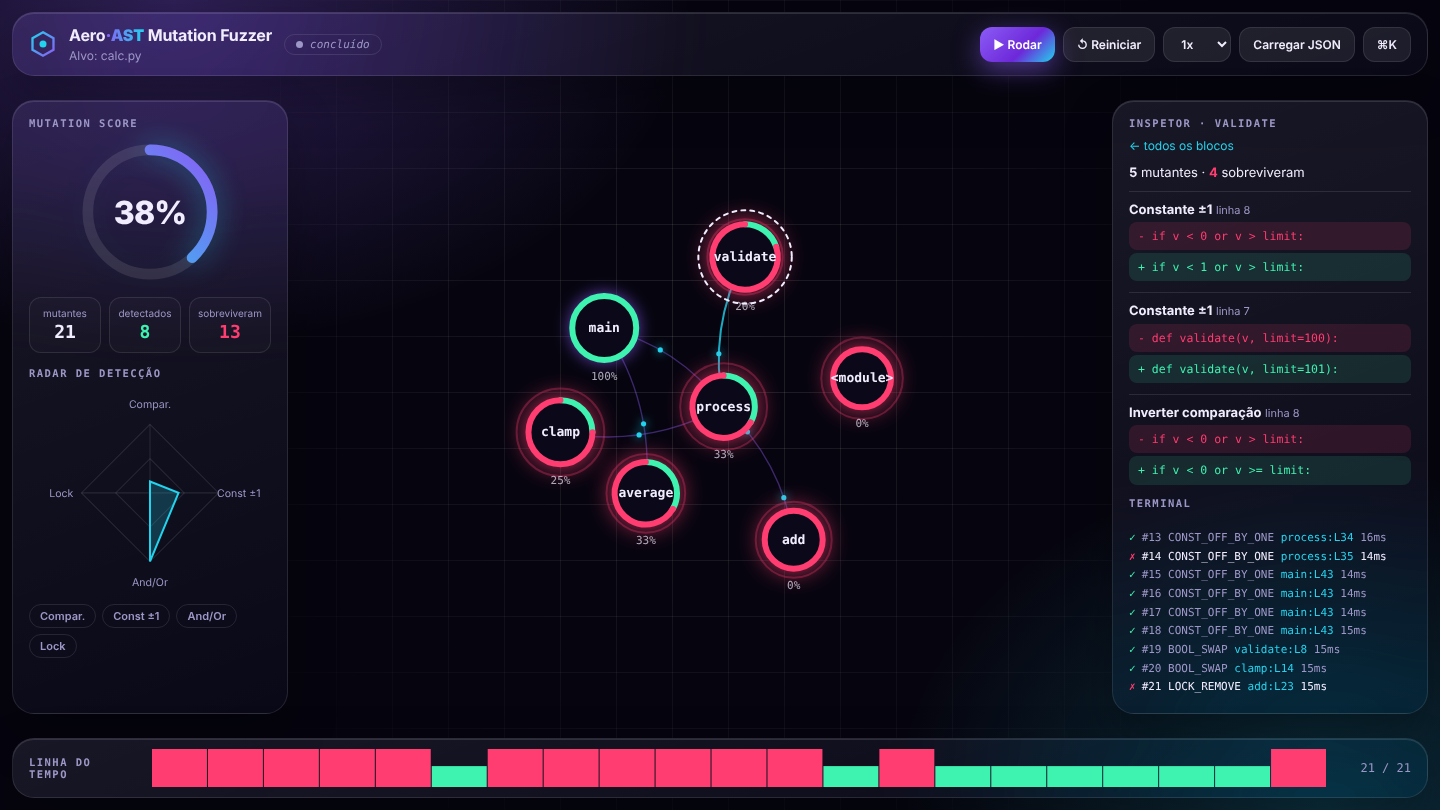
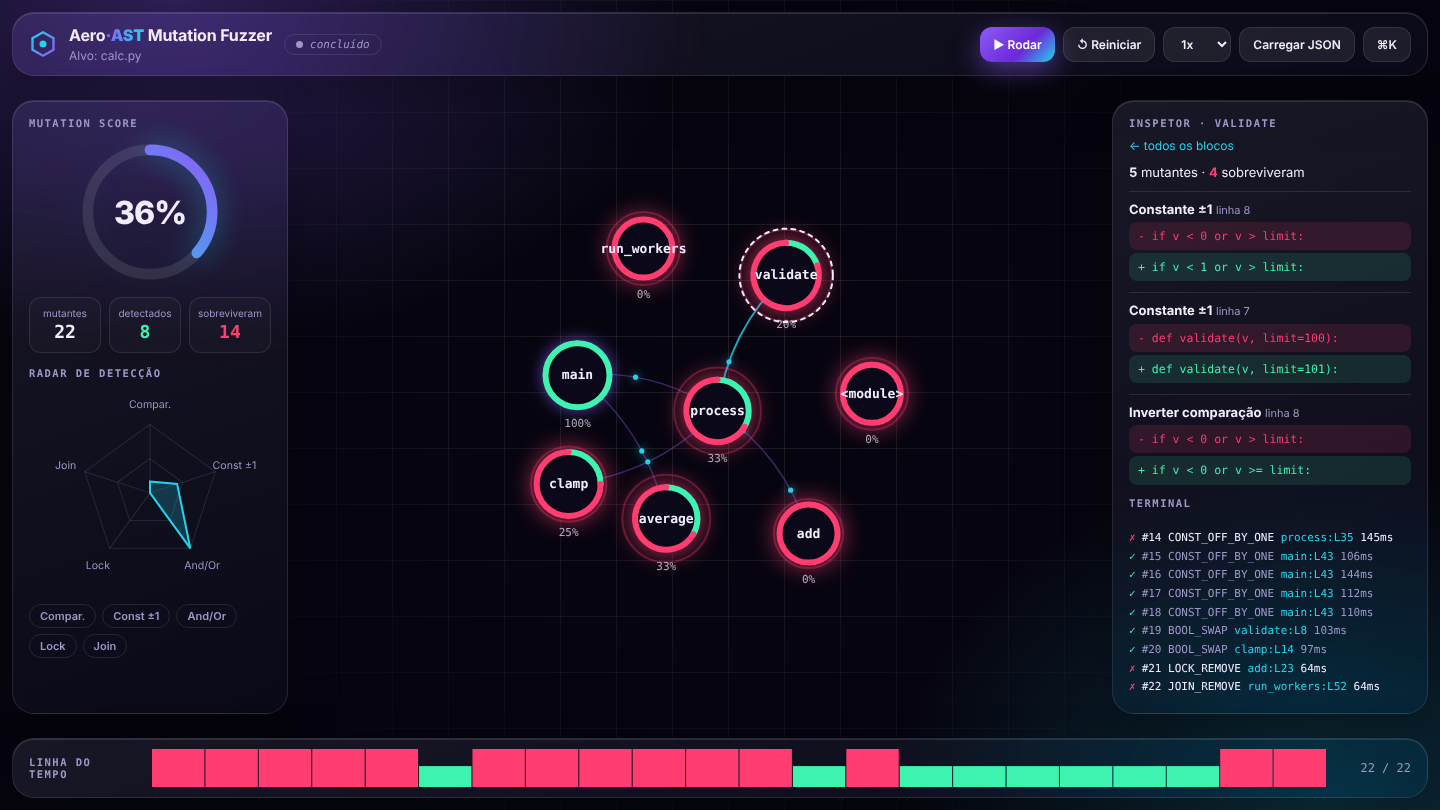
Atualiza README e fuzzer: paralelismo, ranking, relatório e JOIN_REMOVE

diff --git a/docs/index.html b/docs/index.html
@@ -57,8 +57,8 @@ pre{margin:3px 0;padding:6px 9px;border-radius:8px;font:11.5px/1.4 var(--mono);w
 <div id="pal" hidden><div><input id="pi" placeholder="Digite um comando…"><div id="pl"></div></div></div>
 <script>
 const $=i=>document.getElementById(i);
-const LBL={CMP_FLIP:"Inverter comparação",CONST_OFF_BY_ONE:"Constante ±1",BOOL_SWAP:"Trocar and/or",LOCK_REMOVE:"Remover lock"};
-const SH={CMP_FLIP:"Compar.",CONST_OFF_BY_ONE:"Const ±1",BOOL_SWAP:"And/Or",LOCK_REMOVE:"Lock"};
+const LBL={CMP_FLIP:"Inverter comparação",CONST_OFF_BY_ONE:"Constante ±1",BOOL_SWAP:"Trocar and/or",LOCK_REMOVE:"Remover lock",JOIN_REMOVE:"Remover join"};
+const SH={CMP_FLIP:"Compar.",CONST_OFF_BY_ONE:"Const ±1",BOOL_SWAP:"And/Or",LOCK_REMOVE:"Lock",JOIN_REMOVE:"Join"};
 const EX={CMP_FLIP:["if x < lo:","if x <= lo:"],CONST_OFF_BY_ONE:["limit = 10","limit = 11"],BOOL_SWAP:["if a and b:","if a or b:"],LOCK_REMOVE:["with lock:\n    total += n","total += n  # lock removido"]};
 function demo(){const ops=Object.keys(LBL),fn=["main","parse","clamp","add","worker","flush"],m=[];let s=7;for(let i=1;i<=72;i++){s=(s*37+11)%101;const ln=3+((s*7+i)%58);m.push({id:i,op:ops[i%4],line:ln,fn:fn[Math.min(5,Math.floor((ln-3)/10))],status:s%5<3?"killed":"survived",ms:40+s*3})}
  return{target:"demo.py",edges:[["main","parse"],["main","clamp"],["main","worker"],["parse","clamp"],["worker","add"],["worker","flush"],["add","flush"]],mutants:m}}

diff --git a/aero/fuzzer.py b/aero/fuzzer.py
@@ -1,11 +1,14 @@
-"""Aero-AST-Mutation-Fuzzer: nucleo de mutacao de AST (Python).
+"""Aero-AST-Mutation-Fuzzer: motor de mutacao de AST (Python).
 
-Uso: python fuzzer.py <pasta_do_projeto> <arquivo_alvo.py> "<comando de teste>"
-Gera results.json, que o dashboard le diretamente.
+Uso: python aero/fuzzer.py <pasta_do_projeto> <arquivo_alvo.py> "<comando de teste>"
+         [-j N] [-o results.json] [--report report.md]
 """
-import ast, difflib, json, pathlib, shutil, subprocess, sys, tempfile, textwrap, time
+import argparse, ast, difflib, json, os, pathlib, shutil, subprocess, sys
+import tempfile, textwrap, time
+from concurrent.futures import ThreadPoolExecutor
 
-OPS = ["CMP_FLIP", "CONST_OFF_BY_ONE", "BOOL_SWAP", "LOCK_REMOVE"]
+OPS = ["CMP_FLIP", "CONST_OFF_BY_ONE", "BOOL_SWAP", "LOCK_REMOVE", "JOIN_REMOVE"]
+CONCURRENCY = {"LOCK_REMOVE", "JOIN_REMOVE"}
 CMP_SWAP = {ast.Lt: ast.LtE, ast.LtE: ast.Lt, ast.Gt: ast.GtE,
             ast.GtE: ast.Gt, ast.Eq: ast.NotEq, ast.NotEq: ast.Eq}
 
@@ -57,6 +60,15 @@ class Mutator(ast.NodeTransformer):
             return n.body
         return n
 
+    def visit_Expr(self, n):  # remove thread.join() -> corrida com o fim da thread
+        self.generic_visit(n)
+        v = n.value
+        if (self.op == "JOIN_REMOVE" and isinstance(v, ast.Call)
+                and isinstance(v.func, ast.Attribute) and v.func.attr == "join"
+                and not v.args and self._hit(n)):
+            return ast.copy_location(ast.Pass(), n)
+        return n
+
 
 def call_graph(tree):
     """Grafo de chamadas entre funcoes definidas no proprio arquivo."""
@@ -85,36 +97,95 @@ def diff_lines(a, b):
     return "", ""
 
 
-def run(project, target, test_cmd, out="results.json"):
-    project, src = pathlib.Path(project), (pathlib.Path(project) / target)
-    code, mutants = src.read_text(), []
+def _eval(job, project, target, test_cmd, code, orig):
+    op, k = job
+    m = Mutator(op, k)
+    tree = ast.fix_missing_locations(m.visit(ast.parse(code)))
+    mut_src = ast.unparse(tree)
+    before, after = diff_lines(orig, mut_src.splitlines())
+    with tempfile.TemporaryDirectory() as d:
+        work = pathlib.Path(d) / "p"
+        shutil.copytree(project, work)
+        (work / target).write_text(mut_src, encoding="utf-8")
+        t0 = time.time()
+        try:
+            r = subprocess.run(test_cmd, shell=True, cwd=work,
+                               capture_output=True, timeout=30)
+            killed = r.returncode != 0
+        except subprocess.TimeoutExpired:
+            killed = True  # timeout = comportamento alterado
+    return {"op": op, "line": m.line, "fn": m.fn, "before": before, "after": after,
+            "status": "killed" if killed else "survived",
+            "ms": int((time.time() - t0) * 1000)}
+
+
+def ranking(mutants):
+    """Risco por funcao: quem tem mais mutantes sobreviventes vem primeiro."""
+    by = {}
+    for m in mutants:
+        a = by.setdefault(m["fn"], [0, 0])
+        a[0] += 1
+        a[1] += m["status"] == "survived"
+    rows = [{"fn": f, "total": t, "survived": s, "rate": round(s / t, 3)}
+            for f, (t, s) in by.items()]
+    return sorted(rows, key=lambda r: (-r["survived"], -r["rate"], r["fn"]))
+
+
+def make_report(data):
+    ms = data["mutants"]
+    surv = [m for m in ms if m["status"] == "survived"]
+    score = 100 * (1 - len(surv) / max(1, len(ms)))
+    out = [f"# Relatório de mutação: `{data['target']}`", "",
+           f"**Mutation score: {score:.1f}%** ({len(ms) - len(surv)} detectados, "
+           f"{len(surv)} sobreviveram, {len(ms)} no total)", "",
+           "## Ranking de risco por função", "",
+           "| Função | Mutantes | Sobreviveram | Taxa |", "|---|---:|---:|---:|"]
+    out += [f"| `{r['fn']}` | {r['total']} | {r['survived']} | {100 * r['rate']:.0f}% |"
+            for r in data["risk"]]
+    out += ["", "## Mutantes que sobreviveram", ""]
+    for m in surv[:15]:
+        flag = " ⚠ concorrência" if m["op"] in CONCURRENCY else ""
+        out += [f"**#{m['id']} `{m['op']}`** em `{m['fn']}` (linha {m['line']}){flag}", "",
+                "```diff", *("- " + x for x in m["before"].splitlines()),
+                *("+ " + x for x in m["after"].splitlines()), "```", ""]
+    if len(surv) > 15:
+        out.append(f"_...e mais {len(surv) - 15} mutantes._")
+    return "\n".join(out) + "\n"
+
+
+def run(project, target, test_cmd, out="results.json", jobs=None, report=None):
+    t0, project = time.time(), pathlib.Path(project)
+    code = (project / target).read_text(encoding="utf-8")
     orig = ast.unparse(ast.parse(code)).splitlines()
-    for op in OPS:
-        for k in range(count_sites(code, op)):
-            m = Mutator(op, k)
-            tree = ast.fix_missing_locations(m.visit(ast.parse(code)))
-            mut_src = ast.unparse(tree)
-            before, after = diff_lines(orig, mut_src.splitlines())
-            with tempfile.TemporaryDirectory() as d:
-                work = pathlib.Path(d) / "p"
-                shutil.copytree(project, work)
-                (work / target).write_text(mut_src)
-                t0 = time.time()
-                try:
-                    r = subprocess.run(test_cmd, shell=True, cwd=work,
-                                       capture_output=True, timeout=30)
-                    killed = r.returncode != 0
-                except subprocess.TimeoutExpired:
-                    killed = True  # timeout = comportamento alterado
-            mutants.append({"id": len(mutants) + 1, "op": op, "line": m.line, "fn": m.fn, "before": before, "after": after,
-                            "status": "killed" if killed else "survived",
-                            "ms": int((time.time() - t0) * 1000)})
-    json.dump({"target": target, "edges": call_graph(ast.parse(code)),
-               "mutants": mutants}, open(out, "w"), indent=2)
-    surv = sum(x["status"] == "survived" for x in mutants)
+    todo = [(op, k) for op in OPS for k in range(count_sites(code, op))]
+    jobs = jobs or os.cpu_count() or 4
+    with ThreadPoolExecutor(max_workers=jobs) as pool:
+        res = list(pool.map(lambda j: _eval(j, project, target, test_cmd, code, orig), todo))
+    mutants = [{"id": i, **r} for i, r in enumerate(res, 1)]
+    data = {"target": target, "edges": call_graph(ast.parse(code)),
+            "risk": ranking(mutants), "mutants": mutants}
+    with open(out, "w", encoding="utf-8") as f:
+        json.dump(data, f, indent=2, ensure_ascii=False)
+    if report:
+        pathlib.Path(report).write_text(make_report(data), encoding="utf-8")
+    surv = sum(m["status"] == "survived" for m in mutants)
     print(f"{len(mutants)} mutantes | {surv} sobreviveram | score "
-          f"{100 * (1 - surv / max(1, len(mutants))):.1f}%")
+          f"{100 * (1 - surv / max(1, len(mutants))):.1f}% | {jobs} workers | "
+          f"{time.time() - t0:.1f}s")
+    return data
+
+
+def main(argv=None):
+    ap = argparse.ArgumentParser(description="Mutation testing por AST (Python).")
+    ap.add_argument("project", help="pasta do projeto")
+    ap.add_argument("target", help="arquivo alvo, relativo à pasta do projeto")
+    ap.add_argument("test_cmd", help="comando que roda os testes")
+    ap.add_argument("-j", "--jobs", type=int, help="mutantes em paralelo (padrão: nº de CPUs)")
+    ap.add_argument("-o", "--out", default="results.json")
+    ap.add_argument("--report", help="gera um relatório em Markdown neste caminho")
+    a = ap.parse_args(argv)
+    run(a.project, a.target, a.test_cmd, a.out, a.jobs, a.report)
 
 
 if __name__ == "__main__":
-    run(*sys.argv[1:4])
+    main()

diff --git a/tests/test_fuzzer.py b/tests/test_fuzzer.py
@@ -1,5 +1,5 @@
-import ast
-from aero.fuzzer import Mutator, count_sites, call_graph
+import ast, pathlib, sys
+from aero.fuzzer import Mutator, count_sites, call_graph, run, ranking
 
 
 def test_cmp_flip_registra_funcao():
@@ -20,3 +20,25 @@ def test_lock_remove():
 
 def test_grafo_de_chamadas():
     assert call_graph(ast.parse("def a():\n    b()\ndef b():\n    pass\n")) == [("a", "b")]
+
+
+def test_join_remove():
+    src = "def f(t):\n    t.join()\n    return ','.join(['a'])\n"
+    assert count_sites(src, "JOIN_REMOVE") == 1
+    m = Mutator("JOIN_REMOVE", 0)
+    out = ast.unparse(ast.fix_missing_locations(m.visit(ast.parse(src))))
+    assert "t.join()" not in out and "','.join" in out
+
+
+def test_ranking_ordena_por_sobreviventes():
+    ms = [{"fn": "a", "status": "killed"}, {"fn": "b", "status": "survived"},
+          {"fn": "b", "status": "survived"}]
+    assert ranking(ms)[0]["fn"] == "b"
+
+
+def test_paralelo_igual_ao_serial(tmp_path):
+    demo = pathlib.Path(__file__).parent.parent / "examples" / "demo"
+    cmd = f'"{sys.executable}" test_calc.py'
+    a = run(demo, "calc.py", cmd, str(tmp_path / "a.json"), jobs=1)
+    b = run(demo, "calc.py", cmd, str(tmp_path / "b.json"), jobs=4)
+    assert [m["status"] for m in a["mutants"]] == [m["status"] for m in b["mutants"]]

diff --git a/examples/demo/test_calc.py b/examples/demo/test_calc.py
@@ -1,7 +1,7 @@
 # Testes razoáveis, mas incompletos DE PROPÓSITO: assim alguns mutantes
 # sobrevivem e o dashboard mostra onde a cobertura é frágil.
 import calc
-from calc import validate, clamp, add, process, main
+from calc import validate, clamp, add, process, main, run_workers
 
 
 def test_validate():
@@ -31,5 +31,10 @@ def test_main():
     assert main() == (20, 4.5)
 
 
+def test_workers():
+    calc.total = 0
+    assert run_workers([1, 2, 3]) >= 0
+
+
 if __name__ == "__main__":
-    test_validate(); test_clamp(); test_add(); test_process(); test_main()
+    test_validate(); test_clamp(); test_add(); test_process(); test_main(); test_workers()

diff --git a/examples/demo/calc.py b/examples/demo/calc.py
@@ -42,3 +42,12 @@ def process(values, lo=0, hi=10):
 def main():
     values = [3, 12, -4, 7]
     return process(values), average(values)
+
+
+def run_workers(values):
+    threads = [threading.Thread(target=add, args=(v,)) for v in values]
+    for t in threads:
+        t.start()
+    for t in threads:
+        t.join()
+    return total

diff --git a/README.md b/README.md
@@ -67,8 +67,9 @@ flowchart LR
 | `CONST_OFF_BY_ONE` | Soma 1 a uma constante inteira | `limit = 100` → `101` |
 | `BOOL_SWAP` | Troca `and` por `or` (e vice-versa) | `a and b` → `a or b` |
 | `LOCK_REMOVE` | Remove a seção crítica protegida por lock | `with lock:` → *(sem lock)* |
+| `JOIN_REMOVE` | Remove o `join()` de uma thread | `t.join()` → *(removido)* |
 
-`LOCK_REMOVE` é o ponto de partida para auditar **concorrência**: se remover o lock não quebra nenhum teste, nenhum teste exercita acesso concorrente.
+`LOCK_REMOVE` e `JOIN_REMOVE` são o ponto de partida para auditar **concorrência**: se remover o lock ou o `join()` não quebra nenhum teste, nenhum teste exercita acesso concorrente. Esses sobreviventes aparecem marcados com ⚠ no relatório.
 
 ## 🚀 Começar em 1 minuto
 
@@ -83,7 +84,7 @@ python aero/fuzzer.py examples/demo calc.py "python -m pytest -q"
 Saída esperada:
 
 ```
-21 mutantes | 13 sobreviveram | score 38.1%
+22 mutantes | 14 sobreviveram | score 36.4% | 8 workers | 0.4s
 ```
 
 Depois abra `docs/index.html` no navegador, clique em **Carregar JSON** e escolha o `results.json` gerado.
@@ -91,8 +92,17 @@ Depois abra `docs/index.html` no navegador, clique em **Carregar JSON** e escolh
 Uso com o seu projeto:
 
 ```bash
-python aero/fuzzer.py <pasta_do_projeto> <arquivo_alvo.py> "<comando de teste>"
+python aero/fuzzer.py <pasta_do_projeto> <arquivo_alvo.py> "<comando de teste>" \
+       -j 8 --report report.md
 ```
+
+| Opção | O que faz |
+|---|---|
+| `-j N` | Roda N mutantes em paralelo (padrão: número de CPUs) |
+| `-o arquivo.json` | Caminho do resultado (padrão: `results.json`) |
+| `--report arquivo.md` | Gera relatório em Markdown com ranking de risco e diffs |
+
+No GitHub Actions, o relatório também aparece no resumo de cada execução.
 
 ### Formato do `results.json`
 
@@ -100,6 +110,7 @@ python aero/fuzzer.py <pasta_do_projeto> <arquivo_alvo.py> "<comando de teste>"
 {
   "target": "calc.py",
   "edges": [["main", "process"], ["process", "add"]],
+  "risk": [{"fn": "validate", "total": 5, "survived": 4, "rate": 0.8}],
   "mutants": [
     {"id": 1, "op": "CMP_FLIP", "line": 8, "fn": "validate",
      "before": "if v < 0 or v > limit:", "after": "if v <= 0 or v > limit:",
@@ -124,15 +135,17 @@ Aero-AST-Mutation-Fuzzer/
 
 ## 🧭 Roadmap
 
-- [x] Motor de mutação por AST com 4 operadores
+- [x] Motor de mutação por AST com 5 operadores (comparação, constante, booleano, lock, join)
 - [x] Grafo de chamadas entre funções e registro do diff real
 - [x] Dashboard interativo com viagem no tempo
 - [ ] ICFG completo (fluxo de controle intra e interprocedural)
 - [ ] Suporte a C/C++ via LLVM IR (`clang -emit-llvm` + `llvmlite`)
-- [ ] Operadores de concorrência e memória (ordem de locks, `free` antecipado)
+- [x] Operadores básicos de concorrência (`LOCK_REMOVE`, `JOIN_REMOVE`)
+- [ ] Mais operadores de concorrência e memória (ordem de locks, `free` antecipado)
 - [ ] Geração de mutantes guiada por gramática
-- [ ] Ranking de risco por função e relatório em Markdown/PR comment
-- [ ] Execução paralela dos mutantes
+- [x] Ranking de risco por função e relatório em Markdown
+- [ ] Comentário automático no Pull Request com o relatório
+- [x] Execução paralela dos mutantes (`-j`)
 
 ## ⚠ Limitações
 
